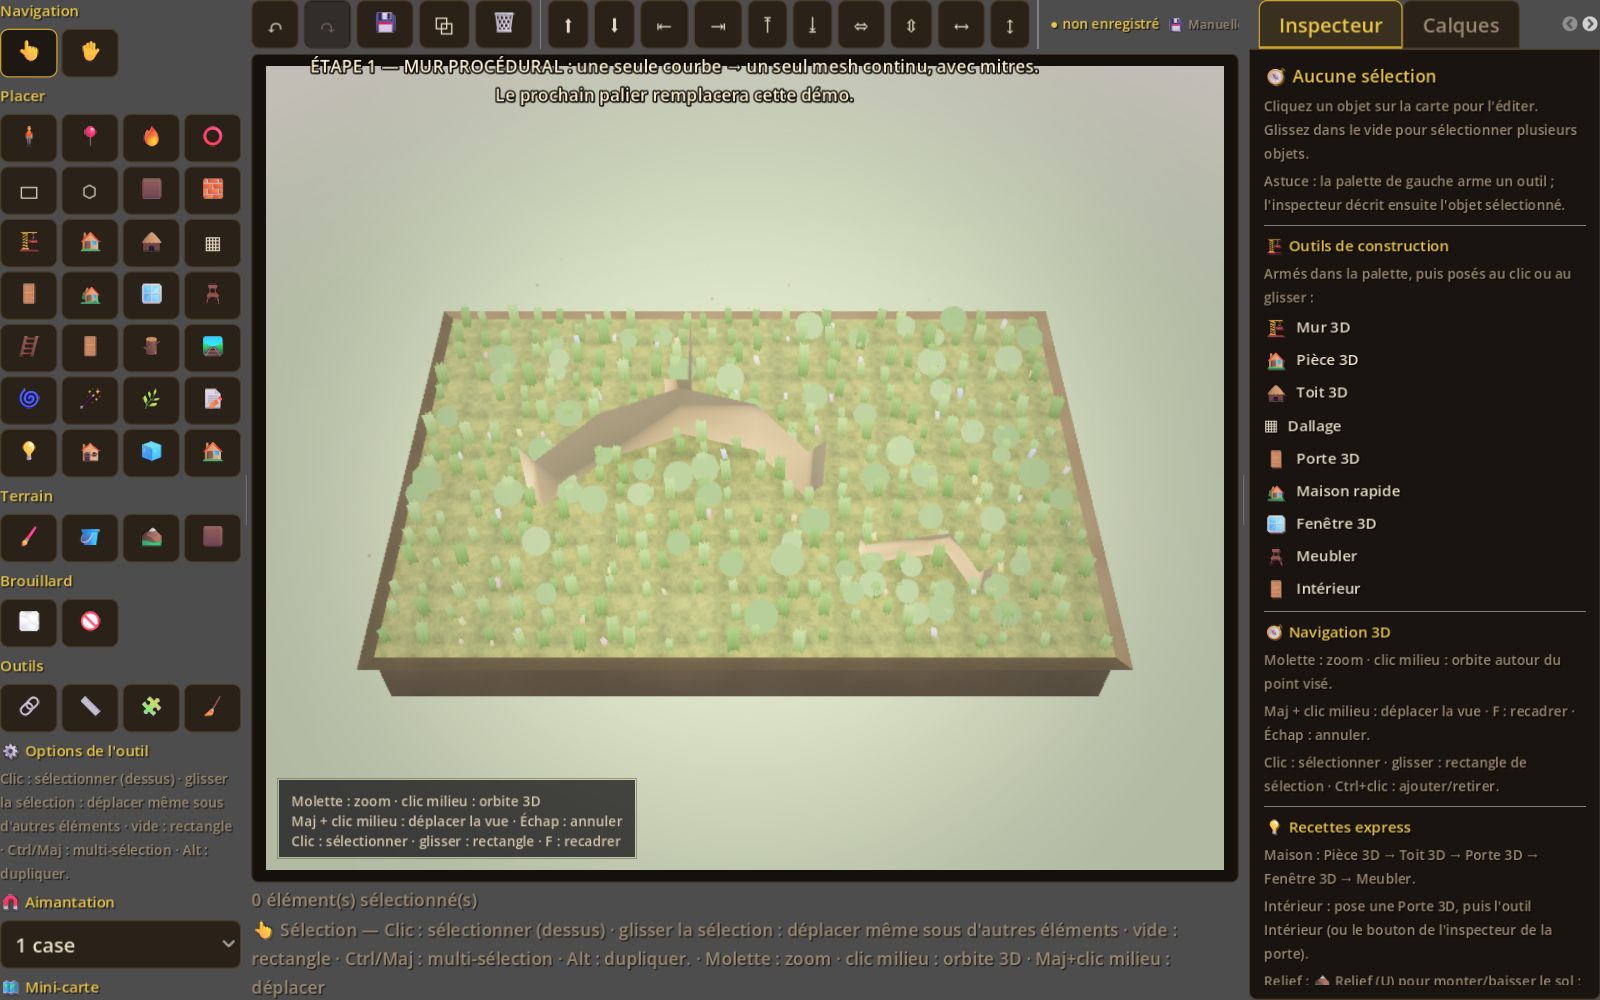
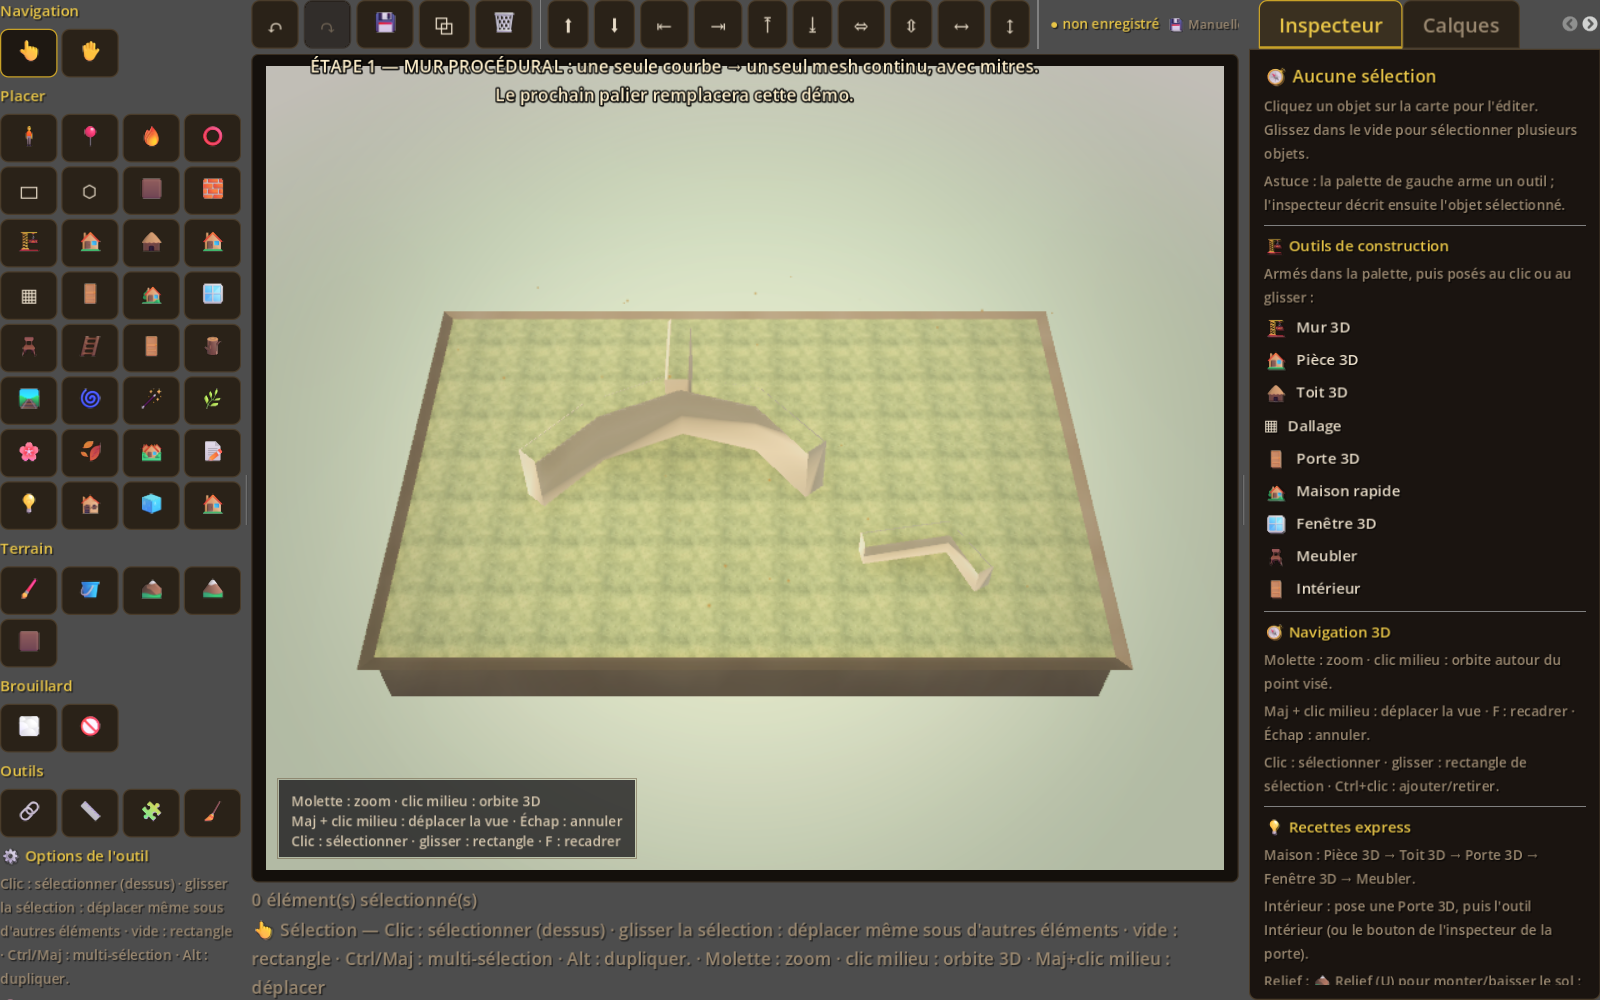
feat(mur): crete biseautee sur le mur procedural

diff --git a/docs/PLAN_PROCEDURAL.md b/docs/PLAN_PROCEDURAL.md
@@ -92,11 +92,12 @@ le jeu doit rester léger et déterministe.
 Chaque étape majeure = une **démo courte** lancée à l'écran, remplacée à
 l'étape suivante, et une capture archivée dans `docs/screenshots/`.
 
-## Étape 1 — Mur procédural continu (livré)
+## Étape 1 — Mur procédural continu (v2 livrée)
 - Spline + mitres + mesh unique.
 - Outil **Mur procédural** dans l'éditeur.
 - Démo : courbe, T visuel, muret de jardin.
 - Critère : aucun escalier de modules ; angles continus.
+- v2 : crête biseautée, face supérieure plate entre deux chanfreins.
 
 ## Étape 2 — Terrain déformable façon Tiny Glade (socle livré)
 - Heightfield sculptable : monter, baisser, lisser, aplatir.
@@ -244,7 +245,8 @@ Aucune scène de base ne doit dépendre d'un asset modélisé à la main.
 
 ## État actuel
 
-- Étape 1 terminée : mur procédural continu (mesh + outil + démo).
+- Étape 1 terminée : mur procédural continu, v2 avec crête biseautée (mesh,
+  outil et démo).
 - Étape 2 en cours : relief déformable par tracé (crête/vallée/aplatir/lisser)
   implémenté côté document, éditeur et test ; la démo visuelle est calibrée pour
   révéler le relief malgré la texture.
